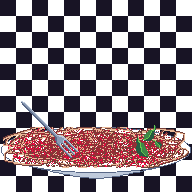
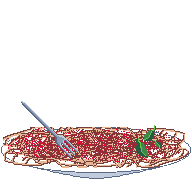
added tabletop.png and tabletop.tsx. Removecheckerboard from spaghetti sprite and made it its own tile.

diff --git a/core/assets/tabletop.tsx b/core/assets/tabletop.tsx
@@ -1,0 +1,26 @@
+<?xml version="1.0" encoding="UTF-8"?>
+<tileset name="tabletop" tilewidth="32" tileheight="32" tilecount="18" columns="6">
+ <image source="tabletop.png" width="192" height="96"/>
+ <terraintypes>
+  <terrain name="table" tile="0"/>
+  <terrain name="floor" tile="0"/>
+ </terraintypes>
+ <tile id="0" terrain="1,1,1,1"/>
+ <tile id="1" terrain="1,1,1,1"/>
+ <tile id="2" terrain="1,1,1,1"/>
+ <tile id="3" terrain="1,1,1,0"/>
+ <tile id="4" terrain="1,1,0,0"/>
+ <tile id="5" terrain="1,1,0,1"/>
+ <tile id="6" terrain="0,0,0,1"/>
+ <tile id="7" terrain="0,0,1,0"/>
+ <tile id="8" terrain="1,1,1,1"/>
+ <tile id="9" terrain="1,0,1,0"/>
+ <tile id="10" terrain="0,0,0,0"/>
+ <tile id="11" terrain="0,1,0,1"/>
+ <tile id="12" terrain="0,1,0,0"/>
+ <tile id="13" terrain="1,0,0,0"/>
+ <tile id="14" terrain="1,1,1,1"/>
+ <tile id="15" terrain="1,0,1,1"/>
+ <tile id="16" terrain="0,0,1,1"/>
+ <tile id="17" terrain="0,1,1,1"/>
+</tileset>
